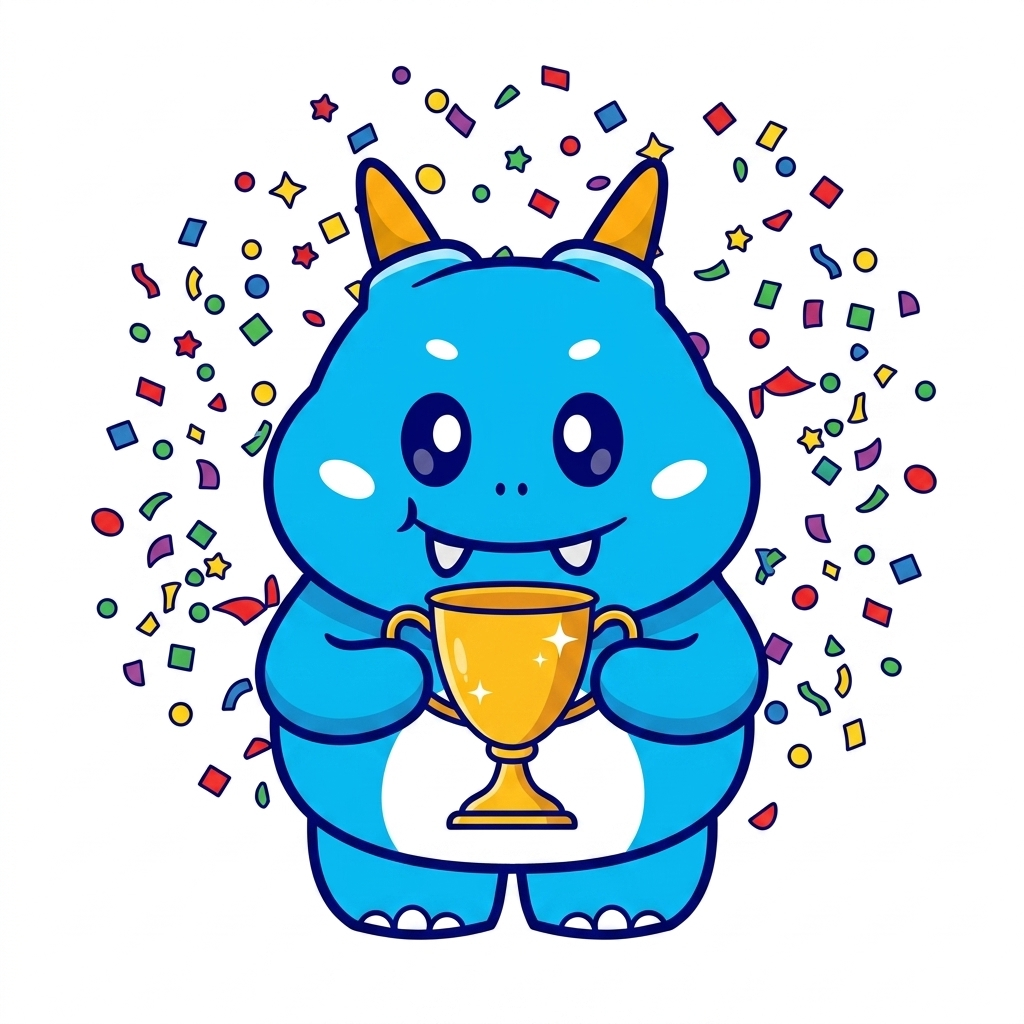
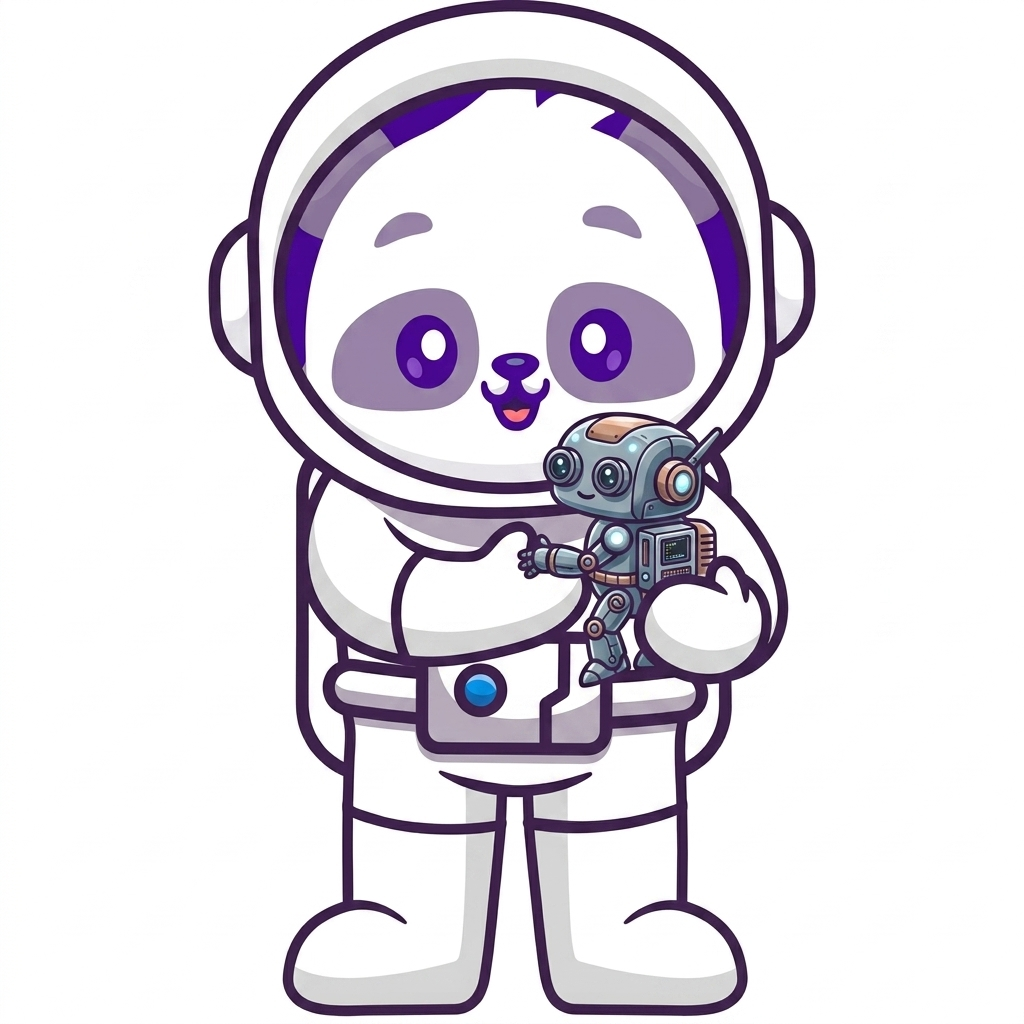
feat: extend AI Creator Camp curriculum from 6 to 7 days and update relevant program information

diff --git a/index.html b/index.html
@@ -3,8 +3,8 @@
 <head>
   <meta charset="UTF-8" />
   <meta name="viewport" content="width=device-width, initial-scale=1.0" />
-  <title>AI Creator Camp by Codju — 6 Days of AI Learning for Students</title>
-  <meta name="description" content="AI Creator Camp by Codju is a live, hands-on AI program for Grades 6–10. 6 days of learning, 15+ AI tools, 8 real projects, and 12 months of support. June 22–27, live on Zoom." />
+  <title>AI Creator Camp by Codju — 7 Days of AI Learning for Students</title>
+  <meta name="description" content="AI Creator Camp by Codju is a live, hands-on AI program for Grades 6–10. 7 days of learning, 15+ AI tools, 8 real projects, and 12 months of support. June 22–28, live on Zoom." />
   <meta name="keywords" content="AI Creator Camp, Codju, AI for students, AI learning, AI summer camp, learn AI online, ChatGPT for students, AI projects for kids, Grades 6-10 AI" />
   <meta name="author" content="Codju" />
   <link rel="canonical" href="https://codju.com/" />
@@ -12,15 +12,15 @@
   <!-- Open Graph / Facebook -->
   <meta property="og:type" content="website" />
   <meta property="og:url" content="https://codju.com/" />
-  <meta property="og:title" content="AI Creator Camp by Codju — 6 Days of AI Learning for Students" />
-  <meta property="og:description" content="AI Creator Camp by Codju is a live, hands-on AI program for Grades 6–10. 6 days of learning, 15+ AI tools, 8 real projects, and 12 months of support." />
+  <meta property="og:title" content="AI Creator Camp by Codju — 7 Days of AI Learning for Students" />
+  <meta property="og:description" content="AI Creator Camp by Codju is a live, hands-on AI program for Grades 6–10. 7 days of learning, 15+ AI tools, 8 real projects, and 12 months of support." />
   <meta property="og:image" content="https://codju.com/assets/DP%20panda.png" />
 
   <!-- Twitter -->
   <meta property="twitter:card" content="summary_large_image" />
   <meta property="twitter:url" content="https://codju.com/" />
-  <meta property="twitter:title" content="AI Creator Camp by Codju — 6 Days of AI Learning for Students" />
-  <meta property="twitter:description" content="AI Creator Camp by Codju is a live, hands-on AI program for Grades 6–10. 6 days of learning, 15+ AI tools, 8 real projects, and 12 months of support." />
+  <meta property="twitter:title" content="AI Creator Camp by Codju — 7 Days of AI Learning for Students" />
+  <meta property="twitter:description" content="AI Creator Camp by Codju is a live, hands-on AI program for Grades 6–10. 7 days of learning, 15+ AI tools, 8 real projects, and 12 months of support." />
   <meta property="twitter:image" content="https://codju.com/assets/DP%20panda.png" />
 
   <!-- Structured Data / JSON-LD -->
@@ -30,7 +30,7 @@
       "@context": "https://schema.org",
       "@type": "Course",
       "name": "AI Creator Camp by Codju",
-      "description": "A live, hands-on AI program for Grades 6–10. Master AI in 6 days, build 8 real projects.",
+      "description": "A live, hands-on AI program for Grades 6–10. Master AI in 7 days, build 8 real projects.",
       "provider": {
         "@type": "Organization",
         "name": "Codju",
@@ -40,7 +40,7 @@
         "@type": "CourseInstance",
         "courseMode": "Online",
         "startDate": "2025-06-22",
-        "endDate": "2025-06-27"
+        "endDate": "2025-06-28"
       }
     },
     {
@@ -84,7 +84,7 @@
           "name": "What is the class format?",
           "acceptedAnswer": {
             "@type": "Answer",
-            "text": "The camp is 100% live and interactive. It runs for 6 days, with 45-minute daily sessions on Zoom. Instead of just listening, students are actively building projects, solving prompts, collaborating, and presenting on Demo Day."
+            "text": "The camp is 100% live and interactive. It runs for 7 days (6 days of classes + 7th day showcase), with 45-minute daily sessions on Zoom. Instead of just listening, students are actively building projects, solving prompts, collaborating, and presenting on Demo Day."
           }
         },
         {
@@ -168,7 +168,7 @@
           <span class="hero__eyebrow-script">Welcome to</span>
           <span class="hero__eyebrow-bold">AI Creator Camp</span>
         </div>
-        <h1 class="hero__top-title">Master AI in 6 Days. Build Your Future.</h1>
+        <h1 class="hero__top-title">Master AI in 7 Days. Build Your Future.</h1>
       </div>
 
       <div class="hero__grid">
@@ -176,7 +176,7 @@
         <div class="hero__content reveal reveal-delay-1">
           <div class="hero__badge">
             <span class="badge badge--outline">
-              <span class="badge__dot"></span> June 22–27 &nbsp;|&nbsp; Live on Zoom &nbsp;|&nbsp; Limited Seats
+              <span class="badge__dot"></span> June 22–28 &nbsp;|&nbsp; Live on Zoom &nbsp;|&nbsp; Limited Seats
             </span>
           </div>
 
@@ -191,7 +191,7 @@
           <ul class="hero__list">
             <li><span class="hero__list-icon">✦</span> Grades 6–10 | Beginner Friendly</li>
             <li><span class="hero__list-icon">✦</span> Hands-On Exposure to 15+ AI Tools</li>
-            <li><span class="hero__list-icon">✦</span> 6-Day Live Camp + 8 Real Projects</li>
+            <li><span class="hero__list-icon">✦</span> 7-Day Live Camp + 8 Real Projects</li>
             <li><span class="hero__list-icon">✦</span> Get Certified by Codju</li>
           </ul>
 
@@ -254,7 +254,7 @@
           <div class="overview-card__icon">
             <svg aria-hidden=\"true\" xmlns="http://www.w3.org/2000/svg" width="24" height="24" viewBox="0 0 24 24" fill="none" stroke="currentColor" stroke-width="2" stroke-linecap="round" stroke-linejoin="round" class="lucide lucide-calendar"><rect width="18" height="18" x="3" y="4" rx="2" ry="2"/><line x1="16" x2="16" y1="2" y2="6"/><line x1="8" x2="8" y1="2" y2="6"/><line x1="3" x2="21" y1="10" y2="10"/></svg>
           </div>
-          <div class="overview-card__title">6-Day Live Camp</div>
+          <div class="overview-card__title">7-Day Live Camp</div>
           <div class="overview-card__desc">A structured learning journey from Day 1 to Demo Day</div>
         </div>
         <div class="card overview-card reveal reveal-delay-1">
@@ -287,8 +287,8 @@
     <div class="container">
       <div class="section-header reveal">
         <span class="section-header__eyebrow">The Learning Path</span>
-        <h2 class="section-header__title">6-Day Learning Plan</h2>
-        <p class="section-header__subtitle">Each day builds on the last. By Day 6, students present real projects they built themselves.</p>
+        <h2 class="section-header__title">7-Day Learning Plan</h2>
+        <p class="section-header__subtitle">Each day builds on the last. By Day 7, students present real projects they built themselves.</p>
       </div>
 
       <div class="learning-tabs">
@@ -318,7 +318,7 @@
             </span>
             <div class="tab-text">
               <strong>Advanced</strong>
-              <span>Build no-code websites & apps</span>
+              <span>Websites, apps & automation</span>
             </div>
           </button>
           <button class="tab-btn" data-tab="tab-4">
@@ -415,10 +415,9 @@
                 </div>
               </div>
             </div>
-
             <div class="session-card">
               <div class="session-card__visual session-card__visual--padded">
-                <img src="assets/day5.png" alt=\"Day 5 Curriculum: Building a Functional Mini App with AI\" />
+                <img src="assets/day5.png" alt="Day 5 Curriculum: Building a Functional Mini App with AI" />
               </div>
               <div class="session-card__content">
                 <span class="session-card__badge">Day 5</span>
@@ -433,16 +432,34 @@
                 </div>
               </div>
             </div>
-          </div>
 
-          <!-- TAB 4: Graduation (Day 6) -->
-          <div class="tab-pane" id="tab-4">
             <div class="session-card">
               <div class="session-card__visual session-card__visual--padded">
-                <img src="assets/day6.png" alt=\"Day 6 Curriculum: Team Hackathon and Project Demo Day\" />
+                <img src="assets/day6.png" alt="Day 6 Curriculum: AI Agents and Automation" />
               </div>
               <div class="session-card__content">
                 <span class="session-card__badge">Day 6</span>
+                <h3 class="session-card__title">AI Agents & Automation</h3>
+                <ul class="session-card__list">
+                  <li>Learn automation fundamentals, custom GPTs, and connect tools to build workflows.</li>
+                  <li><strong>Learn:</strong> Automation concepts, building intelligent custom agents, workflow integrations</li>
+                  <li><strong>Tools:</strong> Make.com, ChatGPT, ElevenLabs</li>
+                </ul>
+                <div class="session-card__takeaway">
+                  Takeaway: Build and deploy your own automated AI agent or chatbot.
+                </div>
+              </div>
+            </div>
+          </div>
+
+          <!-- TAB 4: Graduation (Day 7) -->
+          <div class="tab-pane" id="tab-4">
+            <div class="session-card">
+              <div class="session-card__visual session-card__visual--padded">
+                <img src="assets/day7.png" alt=\"Day 7 Curriculum: Team Hackathon and Project Demo Day\" />
+              </div>
+              <div class="session-card__content">
+                <span class="session-card__badge">Day 7</span>
                 <h3 class="session-card__title">Hackathon + Demo Day</h3>
                 <ul class="session-card__list">
                   <li>Build in teams, present confidently, and showcase final projects to mentors and parents.</li>
@@ -557,7 +574,7 @@
         <div class="schedule-date-card">
           <div class="schedule-date-card__info">
             <span class="schedule-date-card__label">Upcoming Cohort</span>
-            <span class="schedule-date-card__date">June 22 – 27, 2025</span>
+            <span class="schedule-date-card__date">June 22 – 28, 2025</span>
           </div>
           <a href="#reserve" class="btn btn--outline-white btn--small">Reserve Your Spot →</a>
         </div>
@@ -628,6 +645,17 @@
               <span class="slot-badge slot-badge--evening"><svg aria-hidden=\"true\" xmlns="http://www.w3.org/2000/svg" width="16" height="16" viewBox="0 0 24 24" fill="none" stroke="currentColor" stroke-width="2" stroke-linecap="round" stroke-linejoin="round"><path d="M21 12.79A9 9 0 1 1 11.21 3 7 7 0 0 0 21 12.79z"/></svg> 5:00 – 5:45 PM</span>
             </div>
           </div>
+
+          <div class="schedule-row">
+            <div class="schedule-row__day">
+              <span class="schedule-row__badge">Day 7</span>
+              <strong>Saturday</strong>
+            </div>
+            <div class="schedule-row__date">June 28</div>
+            <div class="schedule-row__slots">
+              <span class="slot-badge slot-badge--evening"><svg aria-hidden=\"true\" xmlns="http://www.w3.org/2000/svg" width="16" height="16" viewBox="0 0 24 24" fill="none" stroke="currentColor" stroke-width="2" stroke-linecap="round" stroke-linejoin="round"><path d="M21 12.79A9 9 0 1 1 11.21 3 7 7 0 0 0 21 12.79z"/></svg> 5:00 – 5:45 PM</span>
+            </div>
+          </div>
         </div>
       </div>
     </div>
@@ -689,7 +717,7 @@
       <div class="section-header reveal">
         <span class="section-header__eyebrow" style="color: var(--purple-300);">Long-Term Value</span>
         <h2 class="section-header__title">12 Months of AI Support</h2>
-        <p class="section-header__subtitle">The camp ends in 6 days. The support doesn't. Every enrolled student gets continued access and guidance for a full year.</p>
+        <p class="section-header__subtitle">The camp ends in 7 days. The support doesn't. Every enrolled student gets continued access and guidance for a full year.</p>
       </div>
 
       <div class="feature-split-card reveal" id="support-interactive-container">
@@ -986,7 +1014,7 @@
           </button>
           <div class="faq-item__body">
             <div class="faq-item__content">
-              The camp is 100% live and interactive. It runs for 6 days, with 45-minute daily sessions on Zoom. Instead of just listening, students are actively building projects, solving prompts, collaborating, and presenting on Demo Day.
+              The camp is 100% live and interactive. It runs for 7 days (6 days of classes + 7th day showcase), with 45-minute daily sessions on Zoom. Instead of just listening, students are actively building projects, solving prompts, collaborating, and presenting on Demo Day.
             </div>
           </div>
         </div>

diff --git a/README.md b/README.md
@@ -1,6 +1,6 @@
 # AI Creator Camp by Codju
 
-Welcome to the **AI Creator Camp by Codju** repository. This is the official landing page for the AI Creator Camp, an immersive 6-day online program designed to teach young students (Grades 6–10) the fundamentals and creative applications of Artificial Intelligence.
+Welcome to the **AI Creator Camp by Codju** repository. This is the official landing page for the AI Creator Camp, an immersive 7-day online program designed to teach young students (Grades 6–10) the fundamentals and creative applications of Artificial Intelligence.
 
 ## 🌟 Overview
 
@@ -9,7 +9,7 @@ Rather than teaching students to fear AI, this camp focuses on empowering them t
 - **Domain:** [codju.com](https://codju.com)
 - **Target Audience:** Students in Grades 6–10 (ages 11–16)
 - **Format:** Live Online (Zoom), 45-minute daily sessions
-- **Dates:** June 22 – 27, 2025
+- **Dates:** June 22 – 28, 2025
 
 ## 🚀 Key Outcomes & Deliverables
 